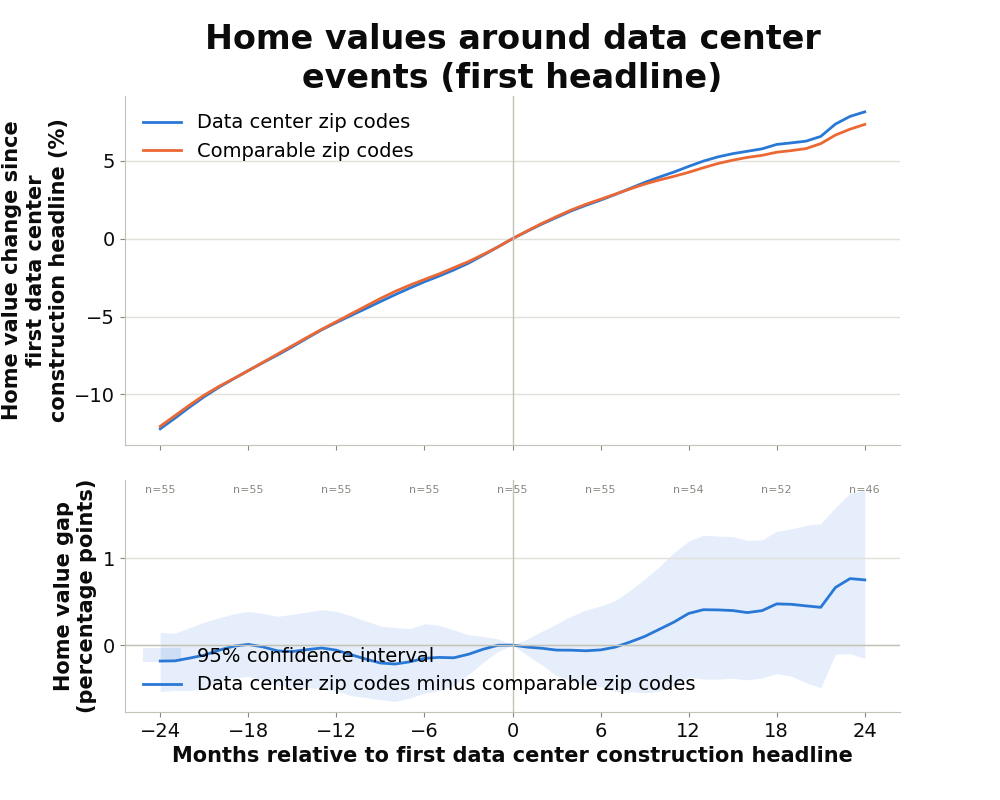
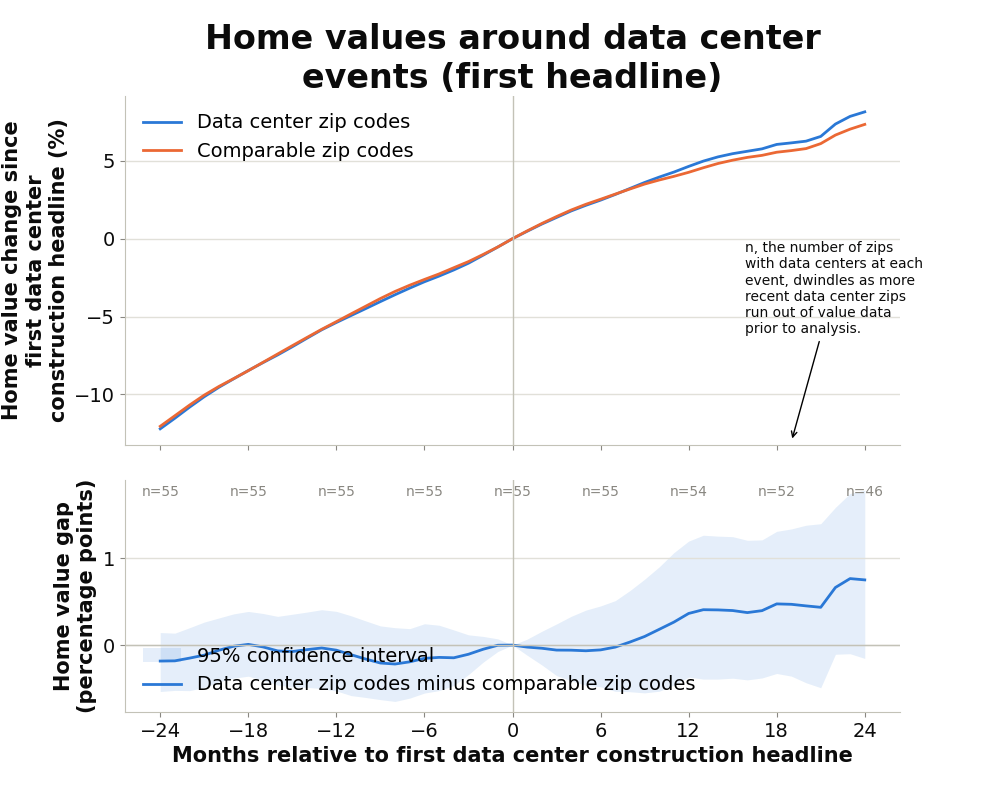
feat: cleanup data visualization
add annotation to images noting the meaning of n and document use of AI

diff --git a/data_visualization.py b/data_visualization.py
@@ -6,11 +6,16 @@ import textwrap
 from study_parameters import EventOfInterest, EVENT_WINDOW_MONTHS, EVENT_OF_INTEREST
 from pathlib import Path
 
-data_dir = Path("data")
+EOI_PREFIX = "operational_" if EVENT_OF_INTEREST == EventOfInterest.FIRST_OPERATIONAL else "headline_"
 
-clean_data_prefix = "operational_" if EVENT_OF_INTEREST == EventOfInterest.FIRST_OPERATIONAL else "headline_"
-treated_panel = pd.read_csv(data_dir / "final"  / (clean_data_prefix + "treated_zipcode_value_estimates.csv"))
-control_panel = pd.read_csv(data_dir / "final"  / (clean_data_prefix + "control_zipcode_value_estimates.csv"))
+# Load analyzed data
+data_dir = Path("data")
+treated_panel = pd.read_csv(data_dir / "final"  / (EOI_PREFIX + "treated_zipcode_value_estimates.csv"))
+control_panel = pd.read_csv(data_dir / "final"  / (EOI_PREFIX + "control_zipcode_value_estimates.csv"))
+
+# DISCLAIMER: The following section was created with help from Claude Code's Opus 5 model.
+
+# -------------------------- CREATED WITH HELP FROM CLAUDE CODE --------------------------
 
 # Join each treated zip's own path to its synthetic control path and take the difference.
 # Gap is the treated zip's log appreciation since the anchor, net of what its matched donors
@@ -26,8 +31,6 @@ gap_panel["Gap"] = gap_panel["Treated"] - gap_panel["Control"]
 assert len(gap_panel) == len(treated_panel), "treated and control panels do not line up"
 assert np.allclose(gap_panel.loc[gap_panel["EventTime"] == 0, "Gap"], 0)
 assert gap_panel["Gap"].notna().all()
-
-print(gap_panel.head(10).to_string(index=False))
 
 N_BOOTSTRAP = 500
 RANDOM_SEED = 510
@@ -49,8 +52,6 @@ for draw in range(N_BOOTSTRAP):
     bootstrap_means[draw] = np.nanmean(gap_by_zip.to_numpy()[sample], axis=0)
 event_study["GapLower"] = np.nanpercentile(bootstrap_means, 2.5, axis=0)
 event_study["GapUpper"] = np.nanpercentile(bootstrap_means, 97.5, axis=0)
-
-print(event_study.loc[[-24, -12, 0, 6, 12, 24]].round(4).to_string())
 
 def log_to_pct(log_change):
     return 100 * (np.exp(log_change) - 1)
@@ -85,13 +86,6 @@ gap_axis.set_ylabel(textwrap.fill("Home value gap (percentage points)", width=25
 event_string = 'data center opening' if EVENT_OF_INTEREST == EventOfInterest.FIRST_OPERATIONAL else 'first data center construction headline'
 gap_axis.set_xlabel(f"Months relative to {event_string}", color=INK, fontweight='bold', fontsize=15)
 gap_axis.legend(frameon=False, loc="lower left")
-# Treated zips observed at each point; the count falls off after the anchor as recent events
-# run out of data.
-for month in range(-EVENT_WINDOW_MONTHS, EVENT_WINDOW_MONTHS + 1, 6):
-    gap_axis.annotate(
-        f"n={event_study.loc[month, 'N']}", (month, 1), xytext=(0, -4), textcoords="offset points",
-        xycoords=("data", "axes fraction"), ha="center", va="top", fontsize=8, color=MUTED,
-    )
 
 for axis in (path_axis, gap_axis):
     axis.axvline(0, color=BASELINE, linewidth=1)
@@ -102,21 +96,40 @@ for axis in (path_axis, gap_axis):
     for side in ("left", "bottom"):
         axis.spines[side].set_color(BASELINE)
 gap_axis.set_xticks(range(-EVENT_WINDOW_MONTHS, EVENT_WINDOW_MONTHS + 1, 6))
+
+# Treated zips observed at each point; the count falls off after the anchor as recent events
+# run out of data.
+for month in range(-EVENT_WINDOW_MONTHS, EVENT_WINDOW_MONTHS + 1, 6):
+    gap_axis.annotate(
+        f"n={event_study.loc[month, 'N']}", (month, 1), xytext=(0, -4), textcoords="offset points",
+        xycoords=("data", "axes fraction"), ha="center", va="top", fontsize=10, color=MUTED,
+    )
+
+# -------------------------- CREATED WITH HELP FROM CLAUDE CODE --------------------------
+
+# Add a note explaining the meaning of n based on feedback that it was unclear
+path_axis.annotate(
+    textwrap.fill("n, the number of zips with data centers at each event, dwindles as more recent data " \
+    "center zips run out of value data prior to analysis.", 25),
+    xy=(0.86, 0.01),
+    xytext=(0.80, 0.32),
+    xycoords="axes fraction",
+    textcoords="axes fraction",
+    arrowprops=dict(
+        facecolor=INK,
+        arrowstyle="->"
+    ),
+    fontsize=10,
+    color=INK
+)
+
+
+
+# Save the data visualization
 img_dir = Path('study_visualizations')
-plt.savefig(img_dir / 'infographic_charts.png', transparent=True)
+plt.savefig(img_dir / (EOI_PREFIX + 'infographic_charts.png'), transparent=True, bbox_inches="tight")
 path_axis.set_title(
     textwrap.fill(f"Home values around data center events ({EVENT_OF_INTEREST.name.replace('_', ' ').lower()})", width=35),
     loc="center", color=INK, fontsize=24, fontweight='bold',
 )
-plt.savefig(img_dir / 'infographic_charts_with_background.png') 
-
-HORIZONS_MONTHS = [3, 6, 12]
-
-# The headline numbers: the gap at each fixed horizon after the anchor, in percent, with
-# its interval and the number of treated zips observed that far out.
-horizon_estimates = event_study.loc[HORIZONS_MONTHS, ["N", "Gap", "GapLower", "GapUpper"]].copy()
-for column in ["Gap", "GapLower", "GapUpper"]:
-    horizon_estimates[f"{column}Pct"] = log_to_pct(horizon_estimates.pop(column))
-horizon_estimates.index.name = "MonthsAfterAnchor"
-
-print(horizon_estimates.round(2).to_string())
+plt.savefig(img_dir / (EOI_PREFIX + 'charts_with_background.png'))
